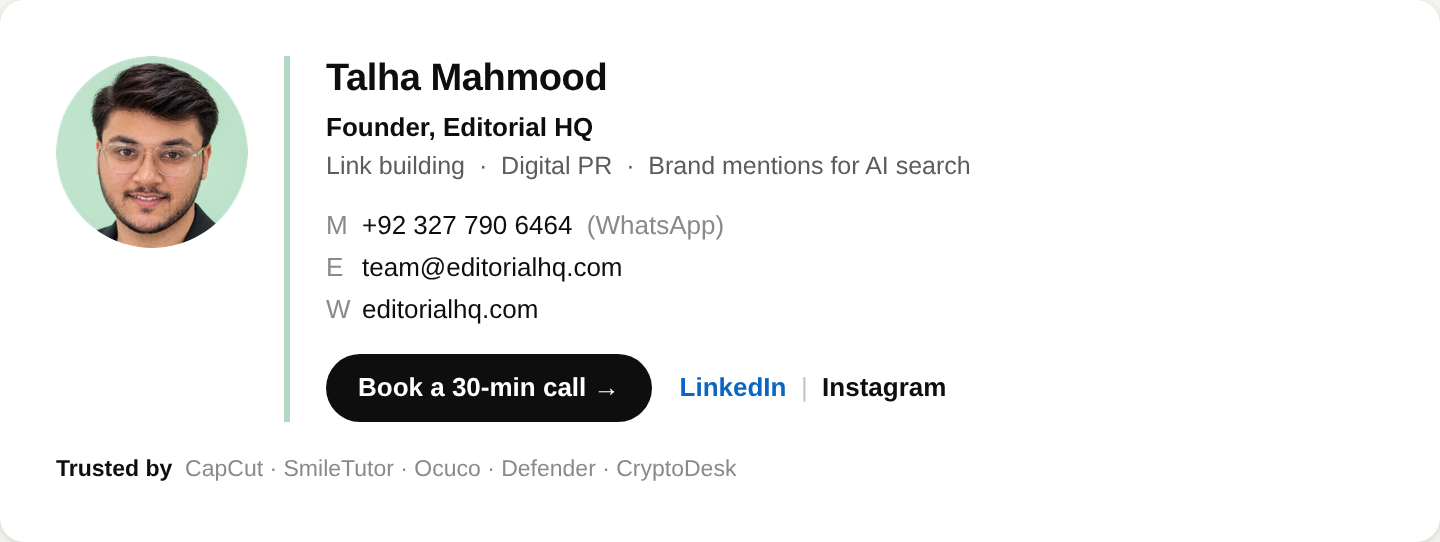
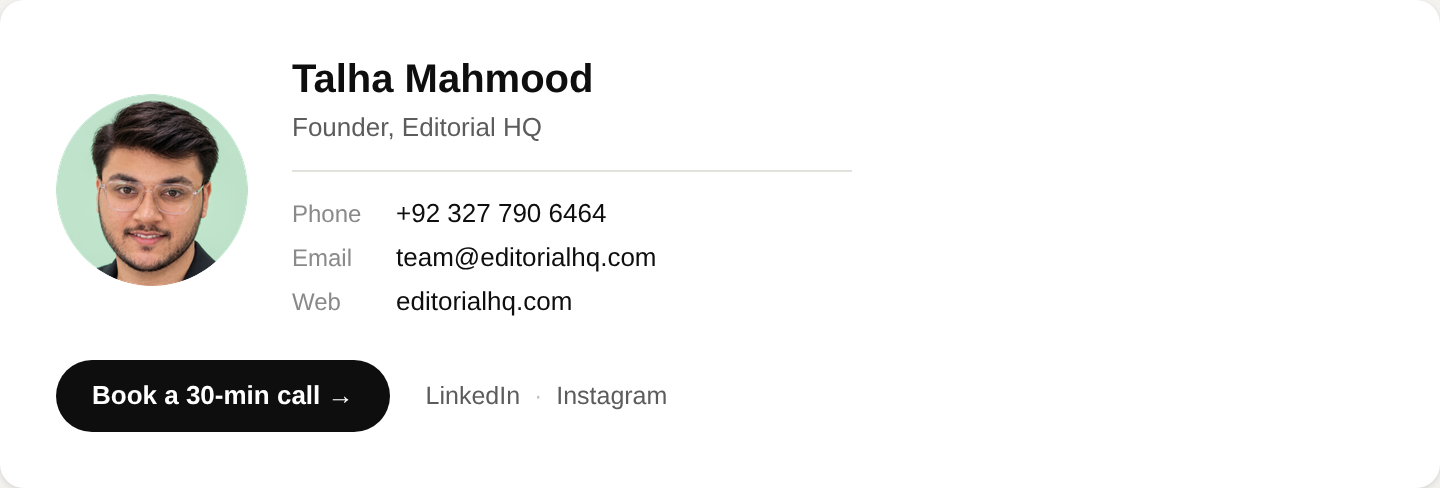
Email signature: simpler, structured layout (name, title, contact column, one button)
Claude-Session: https://claude.ai/code/session_01RB5pCYgPZ9RaNRaU6MLX8J

Changed region(s): [[0.0312, 0.0922, 0.6875, 0.8914]]

diff --git a/docs/email-signature/signature.html b/docs/email-signature/signature.html
@@ -33,44 +33,41 @@
 <div id="sig">
 <table cellpadding="0" cellspacing="0" border="0" role="presentation" style="border-collapse:collapse;font-family:Arial,Helvetica,sans-serif;color:#0E0E0E;">
   <tr>
-    <td valign="top" style="padding:0 18px 0 0;">
+    <td valign="middle" style="padding:0 22px 0 0;">
       <img id="sig-photo" src="talha-photo-192.png" width="96" height="96" alt="Talha Mahmood" style="display:block;width:96px;height:96px;border:0;border-radius:48px;">
     </td>
-    <td valign="top" style="padding:0 0 0 18px;border-left:3px solid #B2D8C1;">
-      <div style="font-size:19px;line-height:24px;font-weight:bold;color:#0E0E0E;letter-spacing:-0.2px;">Talha Mahmood</div>
-      <div style="font-size:13px;line-height:19px;color:#0E0E0E;font-weight:bold;padding:2px 0 0;">Founder, <a href="https://editorialhq.com" style="color:#0E0E0E;text-decoration:none;">Editorial HQ</a></div>
-      <div style="font-size:12.5px;line-height:18px;color:#5C5C5C;padding:1px 0 10px;">Link building&nbsp;&nbsp;·&nbsp;&nbsp;Digital PR&nbsp;&nbsp;·&nbsp;&nbsp;Brand mentions for AI search</div>
-
-      <table cellpadding="0" cellspacing="0" border="0" role="presentation" style="border-collapse:collapse;font-size:13px;line-height:21px;">
+    <td valign="middle" style="padding:0;">
+      <div style="font-size:20px;line-height:24px;font-weight:bold;color:#0E0E0E;">Talha Mahmood</div>
+      <div style="font-size:13px;line-height:18px;color:#5C5C5C;padding:3px 0 0;">Founder, Editorial HQ</div>
+      <div style="width:280px;height:1px;line-height:1px;font-size:1px;background:#E3E1DC;margin:12px 0 10px;">&nbsp;</div>
+      <table cellpadding="0" cellspacing="0" border="0" role="presentation" style="border-collapse:collapse;font-family:Arial,Helvetica,sans-serif;">
         <tr>
-          <td width="18" style="width:18px;color:#8A8A8A;">M</td>
-          <td><a href="https://wa.me/923277906464" style="color:#0E0E0E;text-decoration:none;">+92 327 790 6464</a><span style="color:#8A8A8A;">&nbsp;&nbsp;(WhatsApp)</span></td>
+          <td width="52" style="width:52px;padding:2px 0;font-size:12px;line-height:18px;color:#8A8A8A;">Phone</td>
+          <td style="padding:2px 0;font-size:13px;line-height:18px;"><a href="https://wa.me/923277906464" style="color:#0E0E0E;text-decoration:none;">+92 327 790 6464</a></td>
         </tr>
         <tr>
-          <td width="18" style="width:18px;color:#8A8A8A;">E</td>
-          <td><a href="mailto:team@editorialhq.com" style="color:#0E0E0E;text-decoration:none;">team@editorialhq.com</a></td>
+          <td width="52" style="width:52px;padding:2px 0;font-size:12px;line-height:18px;color:#8A8A8A;">Email</td>
+          <td style="padding:2px 0;font-size:13px;line-height:18px;"><a href="mailto:team@editorialhq.com" style="color:#0E0E0E;text-decoration:none;">team@editorialhq.com</a></td>
         </tr>
         <tr>
-          <td width="18" style="width:18px;color:#8A8A8A;">W</td>
-          <td><a href="https://editorialhq.com" style="color:#0E0E0E;text-decoration:none;">editorialhq.com</a></td>
-        </tr>
-      </table>
-
-      <table cellpadding="0" cellspacing="0" border="0" role="presentation" style="border-collapse:collapse;margin-top:12px;">
-        <tr>
-          <td bgcolor="#0E0E0E" style="background:#0E0E0E;border-radius:18px;padding:8px 16px;">
-            <a href="https://calendly.com/talhaseoexpert/30min" style="font-family:Arial,Helvetica,sans-serif;font-size:13px;line-height:16px;font-weight:bold;color:#FFFFFF;text-decoration:none;white-space:nowrap;">Book a 30-min call&nbsp;&rarr;</a>
-          </td>
-          <td style="padding:0 0 0 14px;font-size:13px;line-height:16px;white-space:nowrap;">
-            <a href="LINKEDIN_URL" style="color:#0A66C2;text-decoration:none;font-weight:bold;">LinkedIn</a><span style="color:#C4C4C4;">&nbsp;&nbsp;|&nbsp;&nbsp;</span><a href="INSTAGRAM_URL" style="color:#0E0E0E;text-decoration:none;font-weight:bold;">Instagram</a>
-          </td>
+          <td width="52" style="width:52px;padding:2px 0;font-size:12px;line-height:18px;color:#8A8A8A;">Web</td>
+          <td style="padding:2px 0;font-size:13px;line-height:18px;"><a href="https://editorialhq.com" style="color:#0E0E0E;text-decoration:none;">editorialhq.com</a></td>
         </tr>
       </table>
     </td>
   </tr>
   <tr>
-    <td colspan="2" style="padding:16px 0 0;font-size:11.5px;line-height:16px;color:#8A8A8A;">
-      <span style="color:#0E0E0E;font-weight:bold;">Trusted by</span>&nbsp; CapCut&nbsp;·&nbsp;SmileTutor&nbsp;·&nbsp;Ocuco&nbsp;·&nbsp;Defender&nbsp;·&nbsp;CryptoDesk
+    <td colspan="2" style="padding:18px 0 0;">
+      <table cellpadding="0" cellspacing="0" border="0" role="presentation" style="border-collapse:collapse;">
+        <tr>
+          <td bgcolor="#0E0E0E" style="background:#0E0E0E;border-radius:18px;padding:9px 18px;">
+            <a href="https://calendly.com/talhaseoexpert/30min" style="font-family:Arial,Helvetica,sans-serif;font-size:13px;line-height:16px;font-weight:bold;color:#FFFFFF;text-decoration:none;white-space:nowrap;">Book a 30-min call&nbsp;&rarr;</a>
+          </td>
+          <td style="padding:0 0 0 18px;font-family:Arial,Helvetica,sans-serif;font-size:12.5px;line-height:16px;white-space:nowrap;color:#C4C4C4;">
+            <a href="LINKEDIN_URL" style="color:#5C5C5C;text-decoration:none;">LinkedIn</a>&nbsp;&nbsp;·&nbsp;&nbsp;<a href="INSTAGRAM_URL" style="color:#5C5C5C;text-decoration:none;">Instagram</a>
+          </td>
+        </tr>
+      </table>
     </td>
   </tr>
 </table>

diff --git a/docs/email-signature/README.md b/docs/email-signature/README.md
@@ -9,13 +9,13 @@ sharp on phones and Retina screens).
 | Old | New | Why |
 |---|---|---|
 | Dark old photo | The new mint headshot, round | Same face as LinkedIn, so people recognise you |
-| "Link Building & Digital PR Expert" | "Founder, Editorial HQ" + "Link building · Digital PR · Brand mentions for AI search" | Shows you run an agency, says what you do instead of calling yourself an expert, and adds the AI angle |
+| "Link Building & Digital PR Expert" | "Founder, Editorial HQ" | Shows you run an agency, instead of calling yourself an expert |
 | Gmail address | team@editorialhq.com + editorialhq.com | Your company email and website look more established than a Gmail address |
 | Blue underlined links | Plain dark text, still clickable | Looks calmer and more expensive |
-| Phone opens a call | Phone opens WhatsApp | Most international clients reach Pakistan numbers on WhatsApp, not by phone |
+| "M:, E:" on one line | Phone, Email, Web in a neat column | Easier to scan |
+| Phone opens a call | Clicking the number opens WhatsApp | Most international clients reach Pakistan numbers on WhatsApp |
 | Sage green button with a calendar icon | Black "Book a 30-min call →" button | Matches the brand, and it's built from HTML, not an image, so it always shows |
-| Round social icons | "LinkedIn \| Instagram" as text | Icons are images: Gmail often blocks them and they look blurry. Text never breaks |
-| No proof | "Trusted by CapCut · SmileTutor · Ocuco · Defender · CryptoDesk" | Every email now carries your client list |
+| Round social icons | "LinkedIn · Instagram" as small grey text | Icons are images: Gmail often blocks them and they look blurry. Text never breaks |
 
 ## Set it up in Gmail (10 minutes)
 
@@ -50,7 +50,7 @@ on the phone will use this one on most accounts.
 
 ## Rules it follows
 
-- 470 px wide, so it fits phones without shrinking.
+- About 400 px wide, so it fits phones without shrinking.
 - Arial everywhere. Brand fonts don't load in email, and Arial looks the same
   in every inbox.
 - One photo, no other images, so nothing gets blocked and it stays light.
